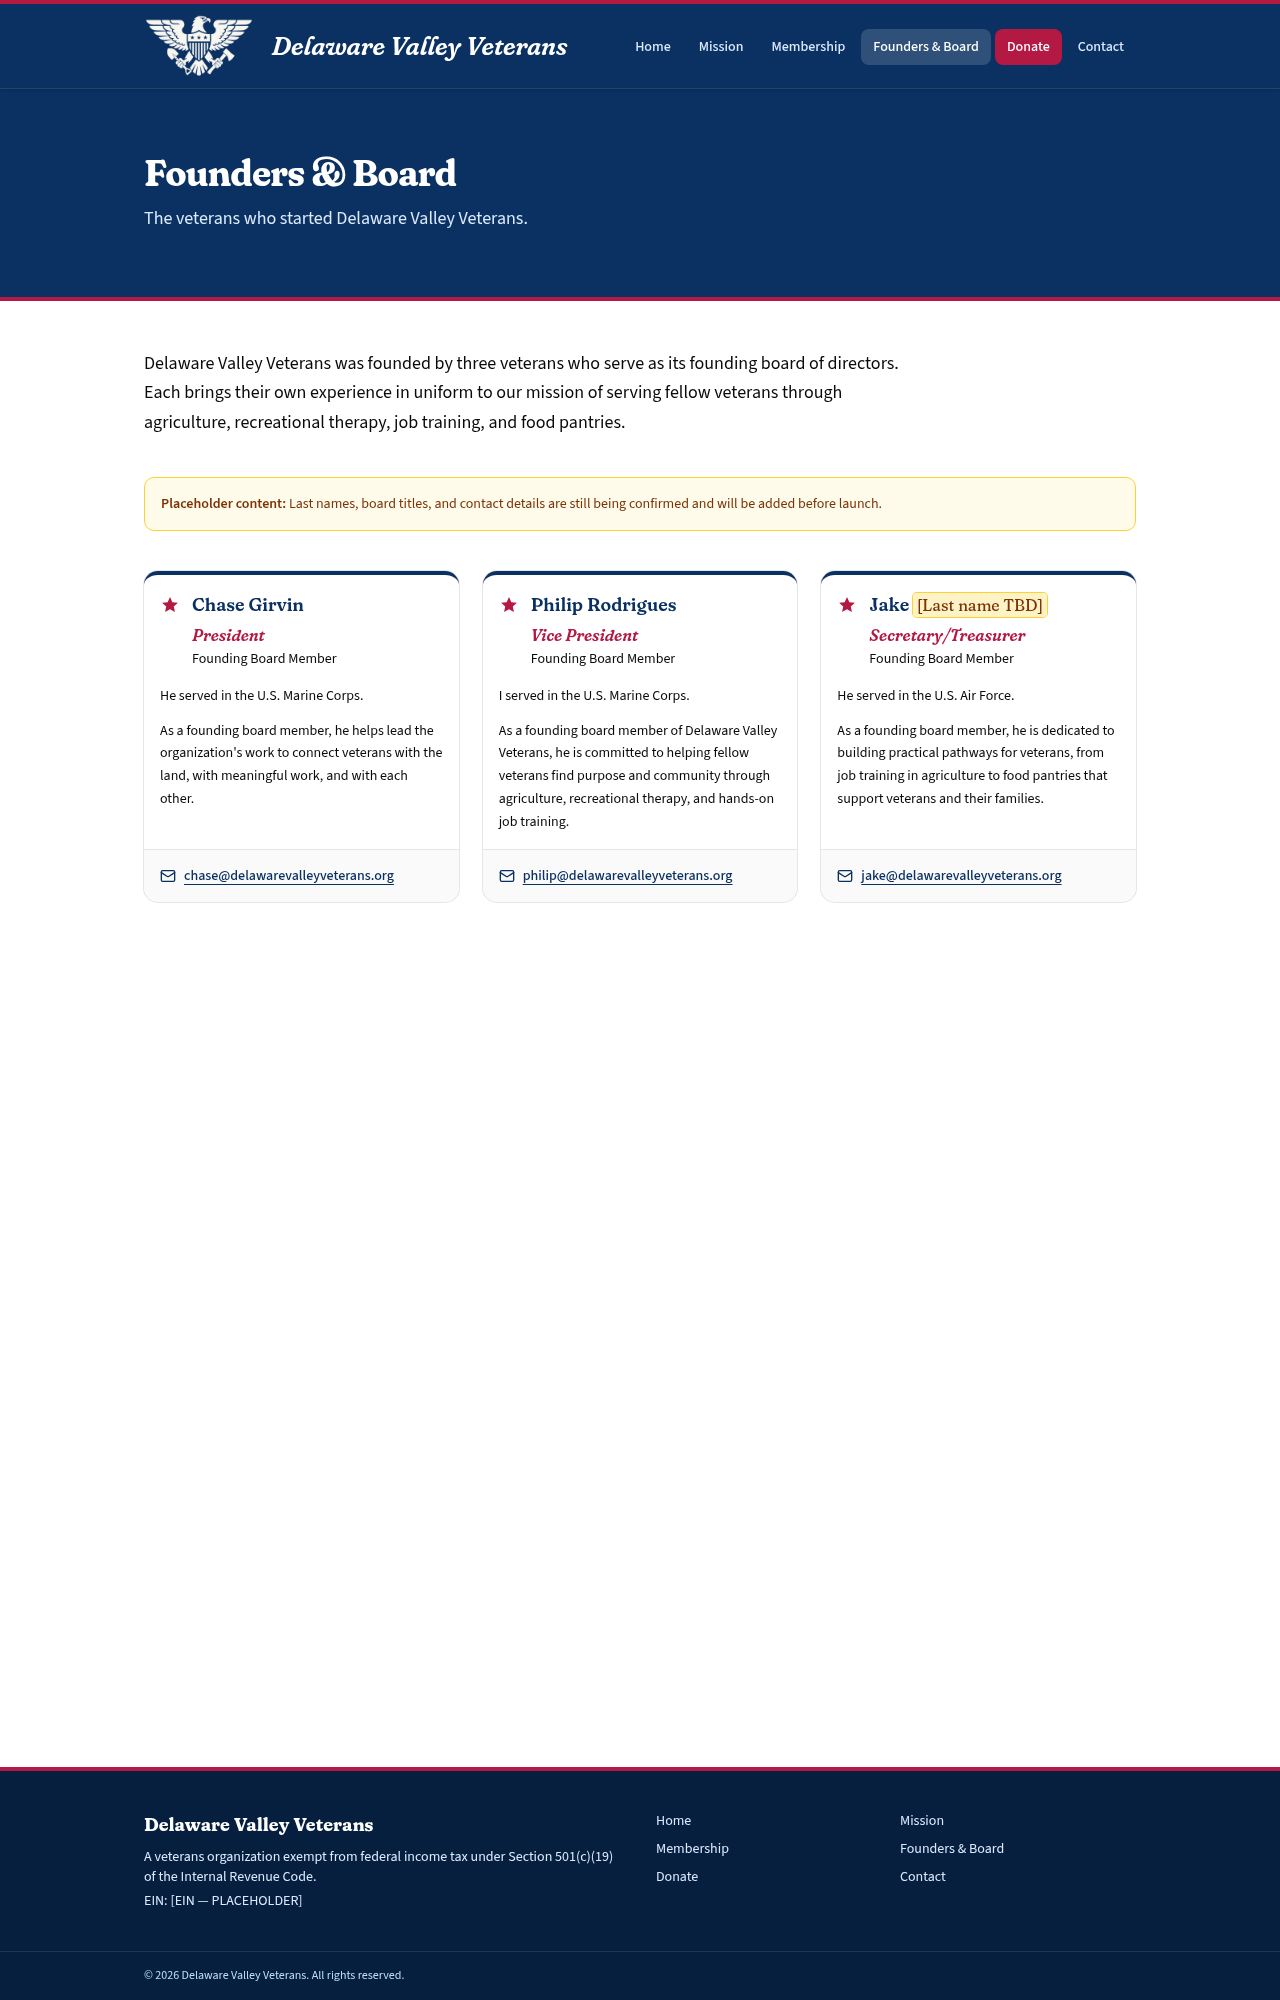
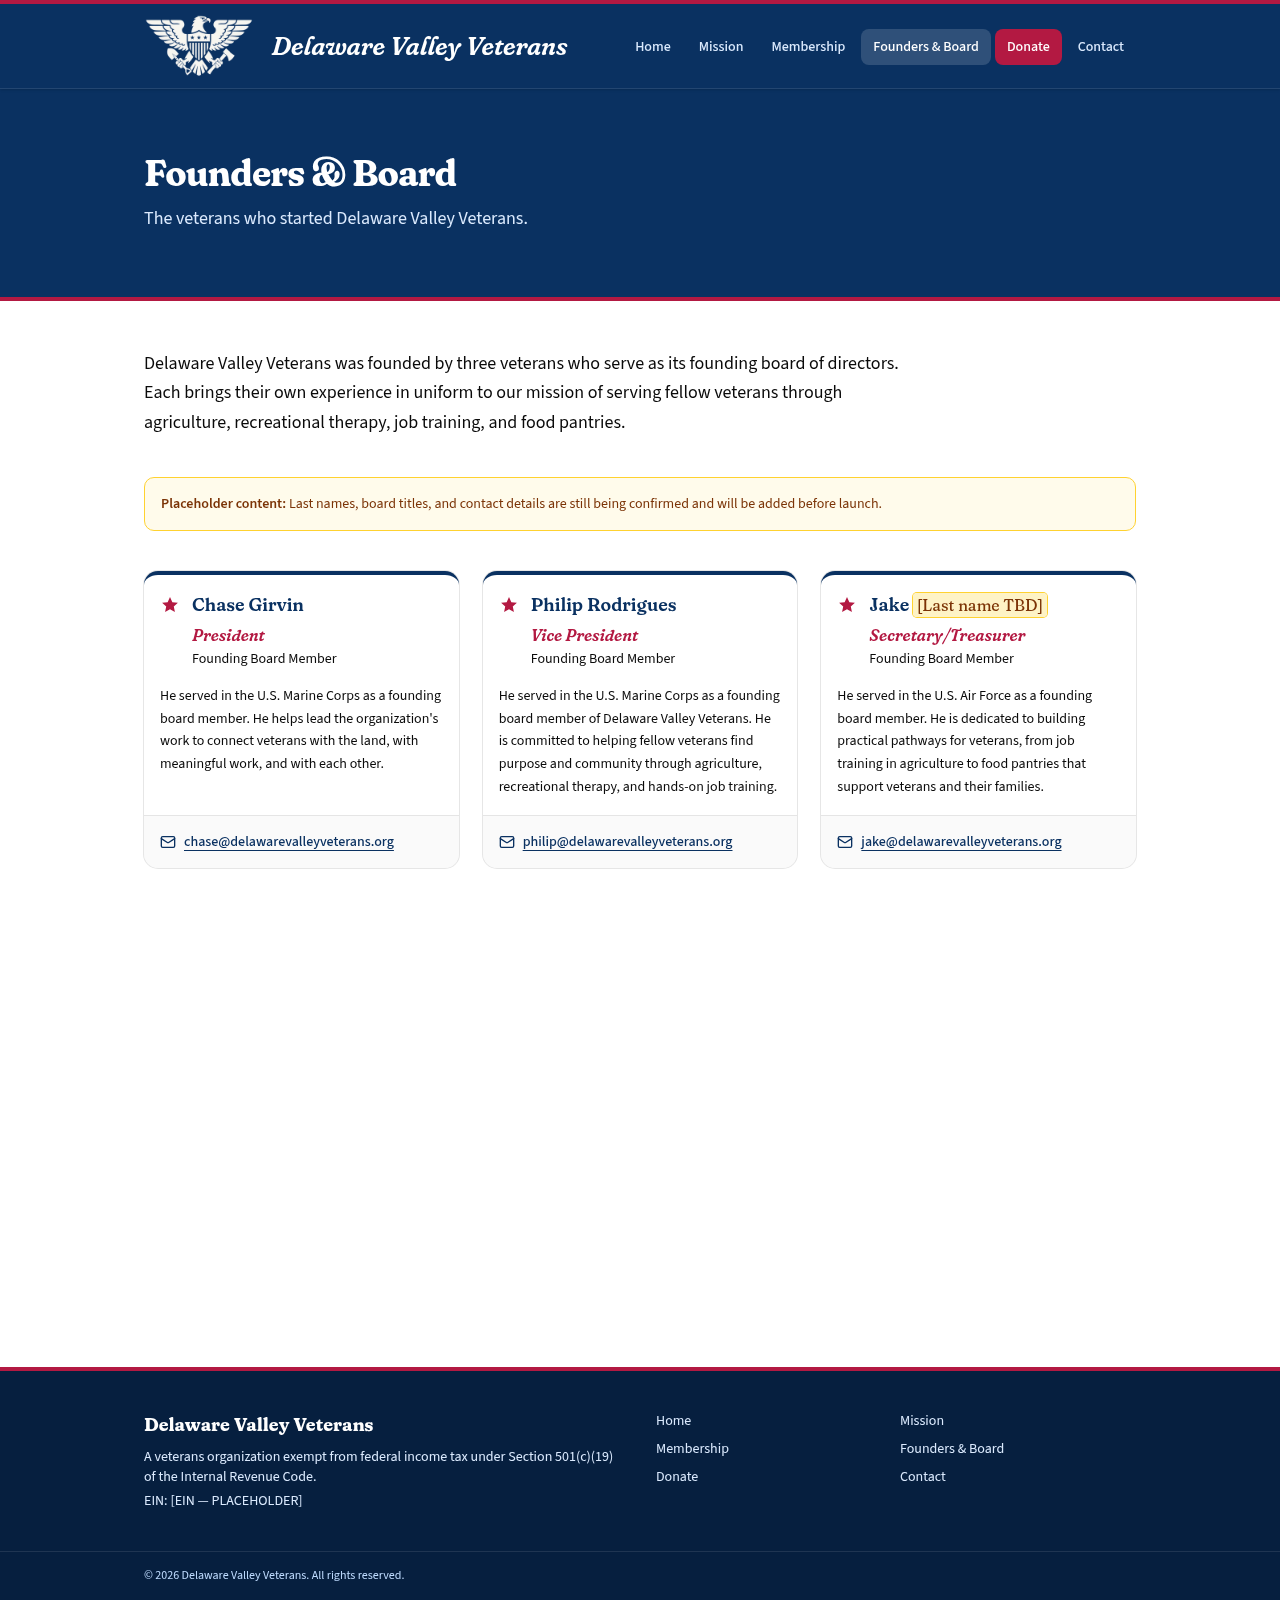
Founders: merge service lines into bio paragraphs

diff --git a/src/lib/site.ts b/src/lib/site.ts
@@ -31,8 +31,6 @@ export type Founder = {
   lastName: { value: string; placeholder: boolean };
   /** Board office, shown prominently on the card. */
   title: string;
-  /** Service sentence, shown as the first line of the bio copy. */
-  service: string;
   branchPlaceholder?: string;
   bio: string;
   email: string;
@@ -49,8 +47,7 @@ export const founders: Founder[] = [
     firstName: "Chase",
     lastName: { value: "Girvin", placeholder: false },
     title: "President",
-    service: "He served in the U.S. Marine Corps.",
-    bio: "As a founding board member, he helps lead the organization's work to connect veterans with the land, with meaningful work, and with each other.",
+    bio: "He served in the U.S. Marine Corps as a founding board member. He helps lead the organization's work to connect veterans with the land, with meaningful work, and with each other.",
     email: "chase@delawarevalleyveterans.org",
   },
   {
@@ -58,8 +55,7 @@ export const founders: Founder[] = [
     firstName: "Philip",
     lastName: { value: "Rodrigues", placeholder: false },
     title: "Vice President",
-    service: "He served in the U.S. Marine Corps.",
-    bio: "As a founding board member of Delaware Valley Veterans, he is committed to helping fellow veterans find purpose and community through agriculture, recreational therapy, and hands-on job training.",
+    bio: "He served in the U.S. Marine Corps as a founding board member of Delaware Valley Veterans. He is committed to helping fellow veterans find purpose and community through agriculture, recreational therapy, and hands-on job training.",
     email: "philip@delawarevalleyveterans.org",
   },
   {
@@ -67,8 +63,7 @@ export const founders: Founder[] = [
     firstName: "Jake",
     lastName: { value: "[Last name TBD]", placeholder: true },
     title: "Secretary/Treasurer",
-    service: "He served in the U.S. Air Force.",
-    bio: "As a founding board member, he is dedicated to building practical pathways for veterans, from job training in agriculture to food pantries that support veterans and their families.",
+    bio: "He served in the U.S. Air Force as a founding board member. He is dedicated to building practical pathways for veterans, from job training in agriculture to food pantries that support veterans and their families.",
     email: "jake@delawarevalleyveterans.org",
   },
 ];

diff --git a/src/app/founders/page.tsx b/src/app/founders/page.tsx
@@ -58,8 +58,7 @@ export default function FoundersPage() {
                     </div>
                   </CardHeader>
                   <CardContent className="flex-1">
-                    <p className="leading-relaxed">{f.service}</p>
-                    <p className="mt-3 leading-relaxed">{f.bio}</p>
+                                        <p className="leading-relaxed">{f.bio}</p>
                   </CardContent>
                   <CardFooter className="flex-col items-start gap-2 text-sm">
                     <p className="flex items-center gap-2">
